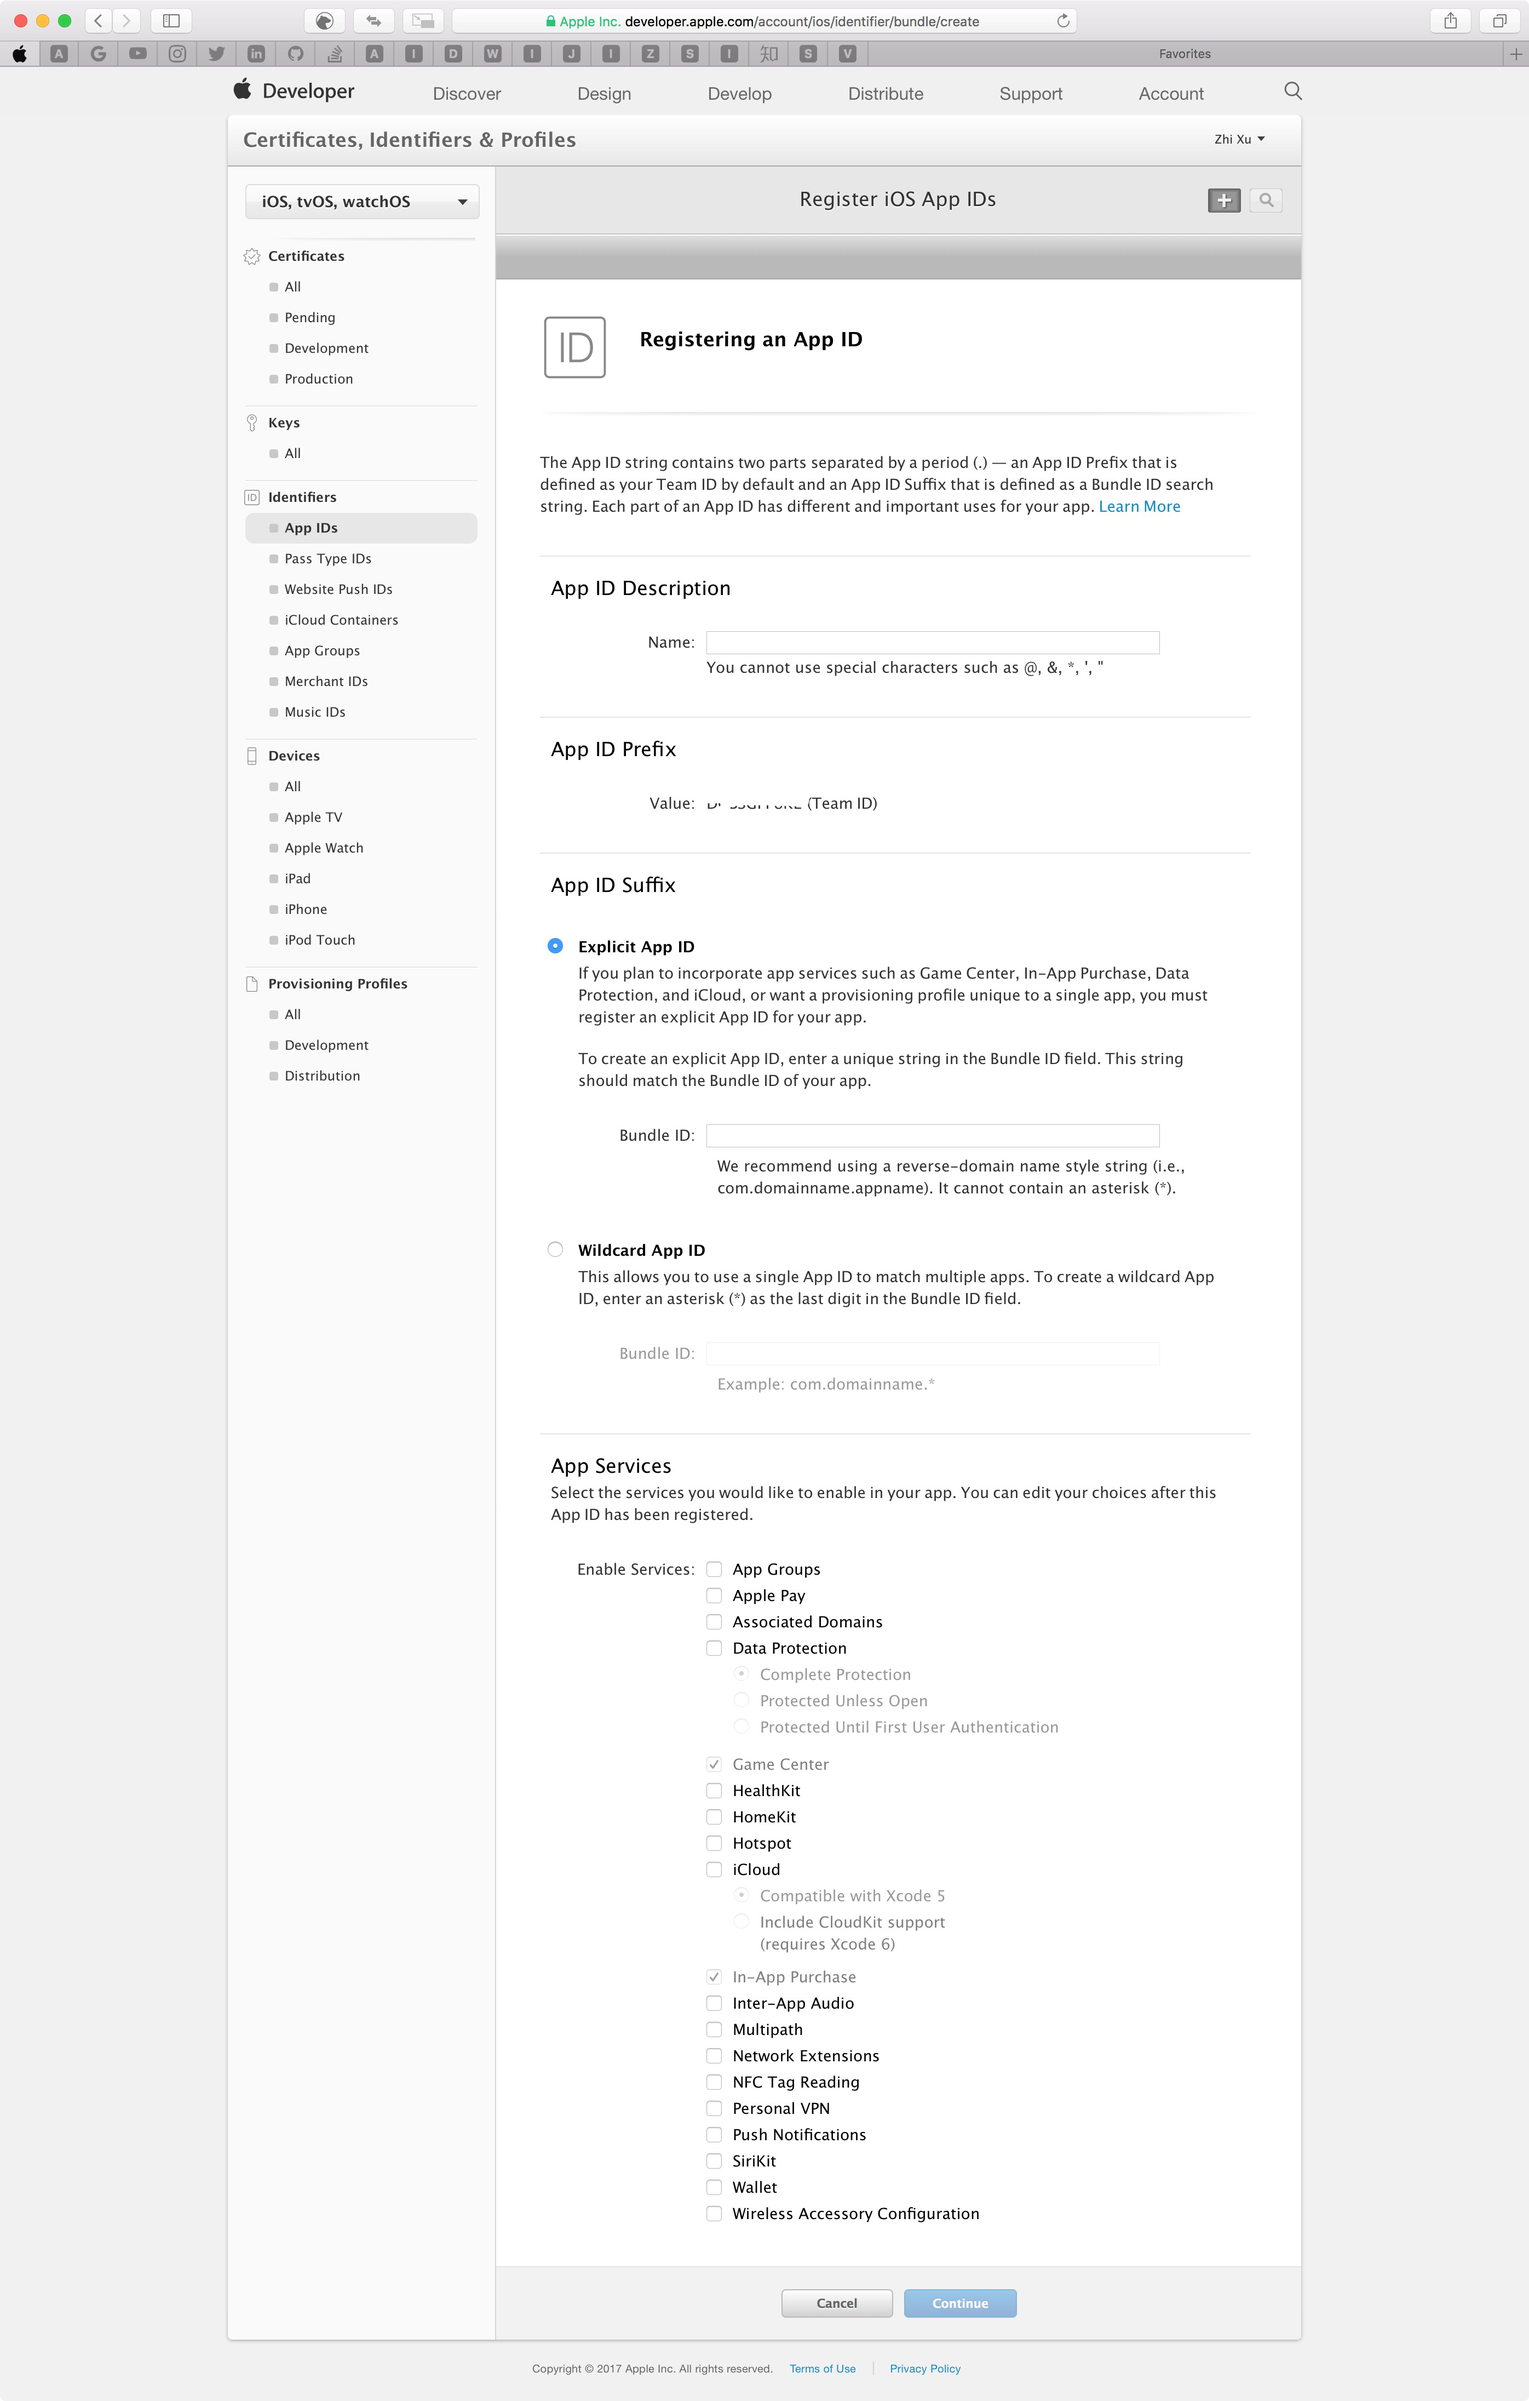
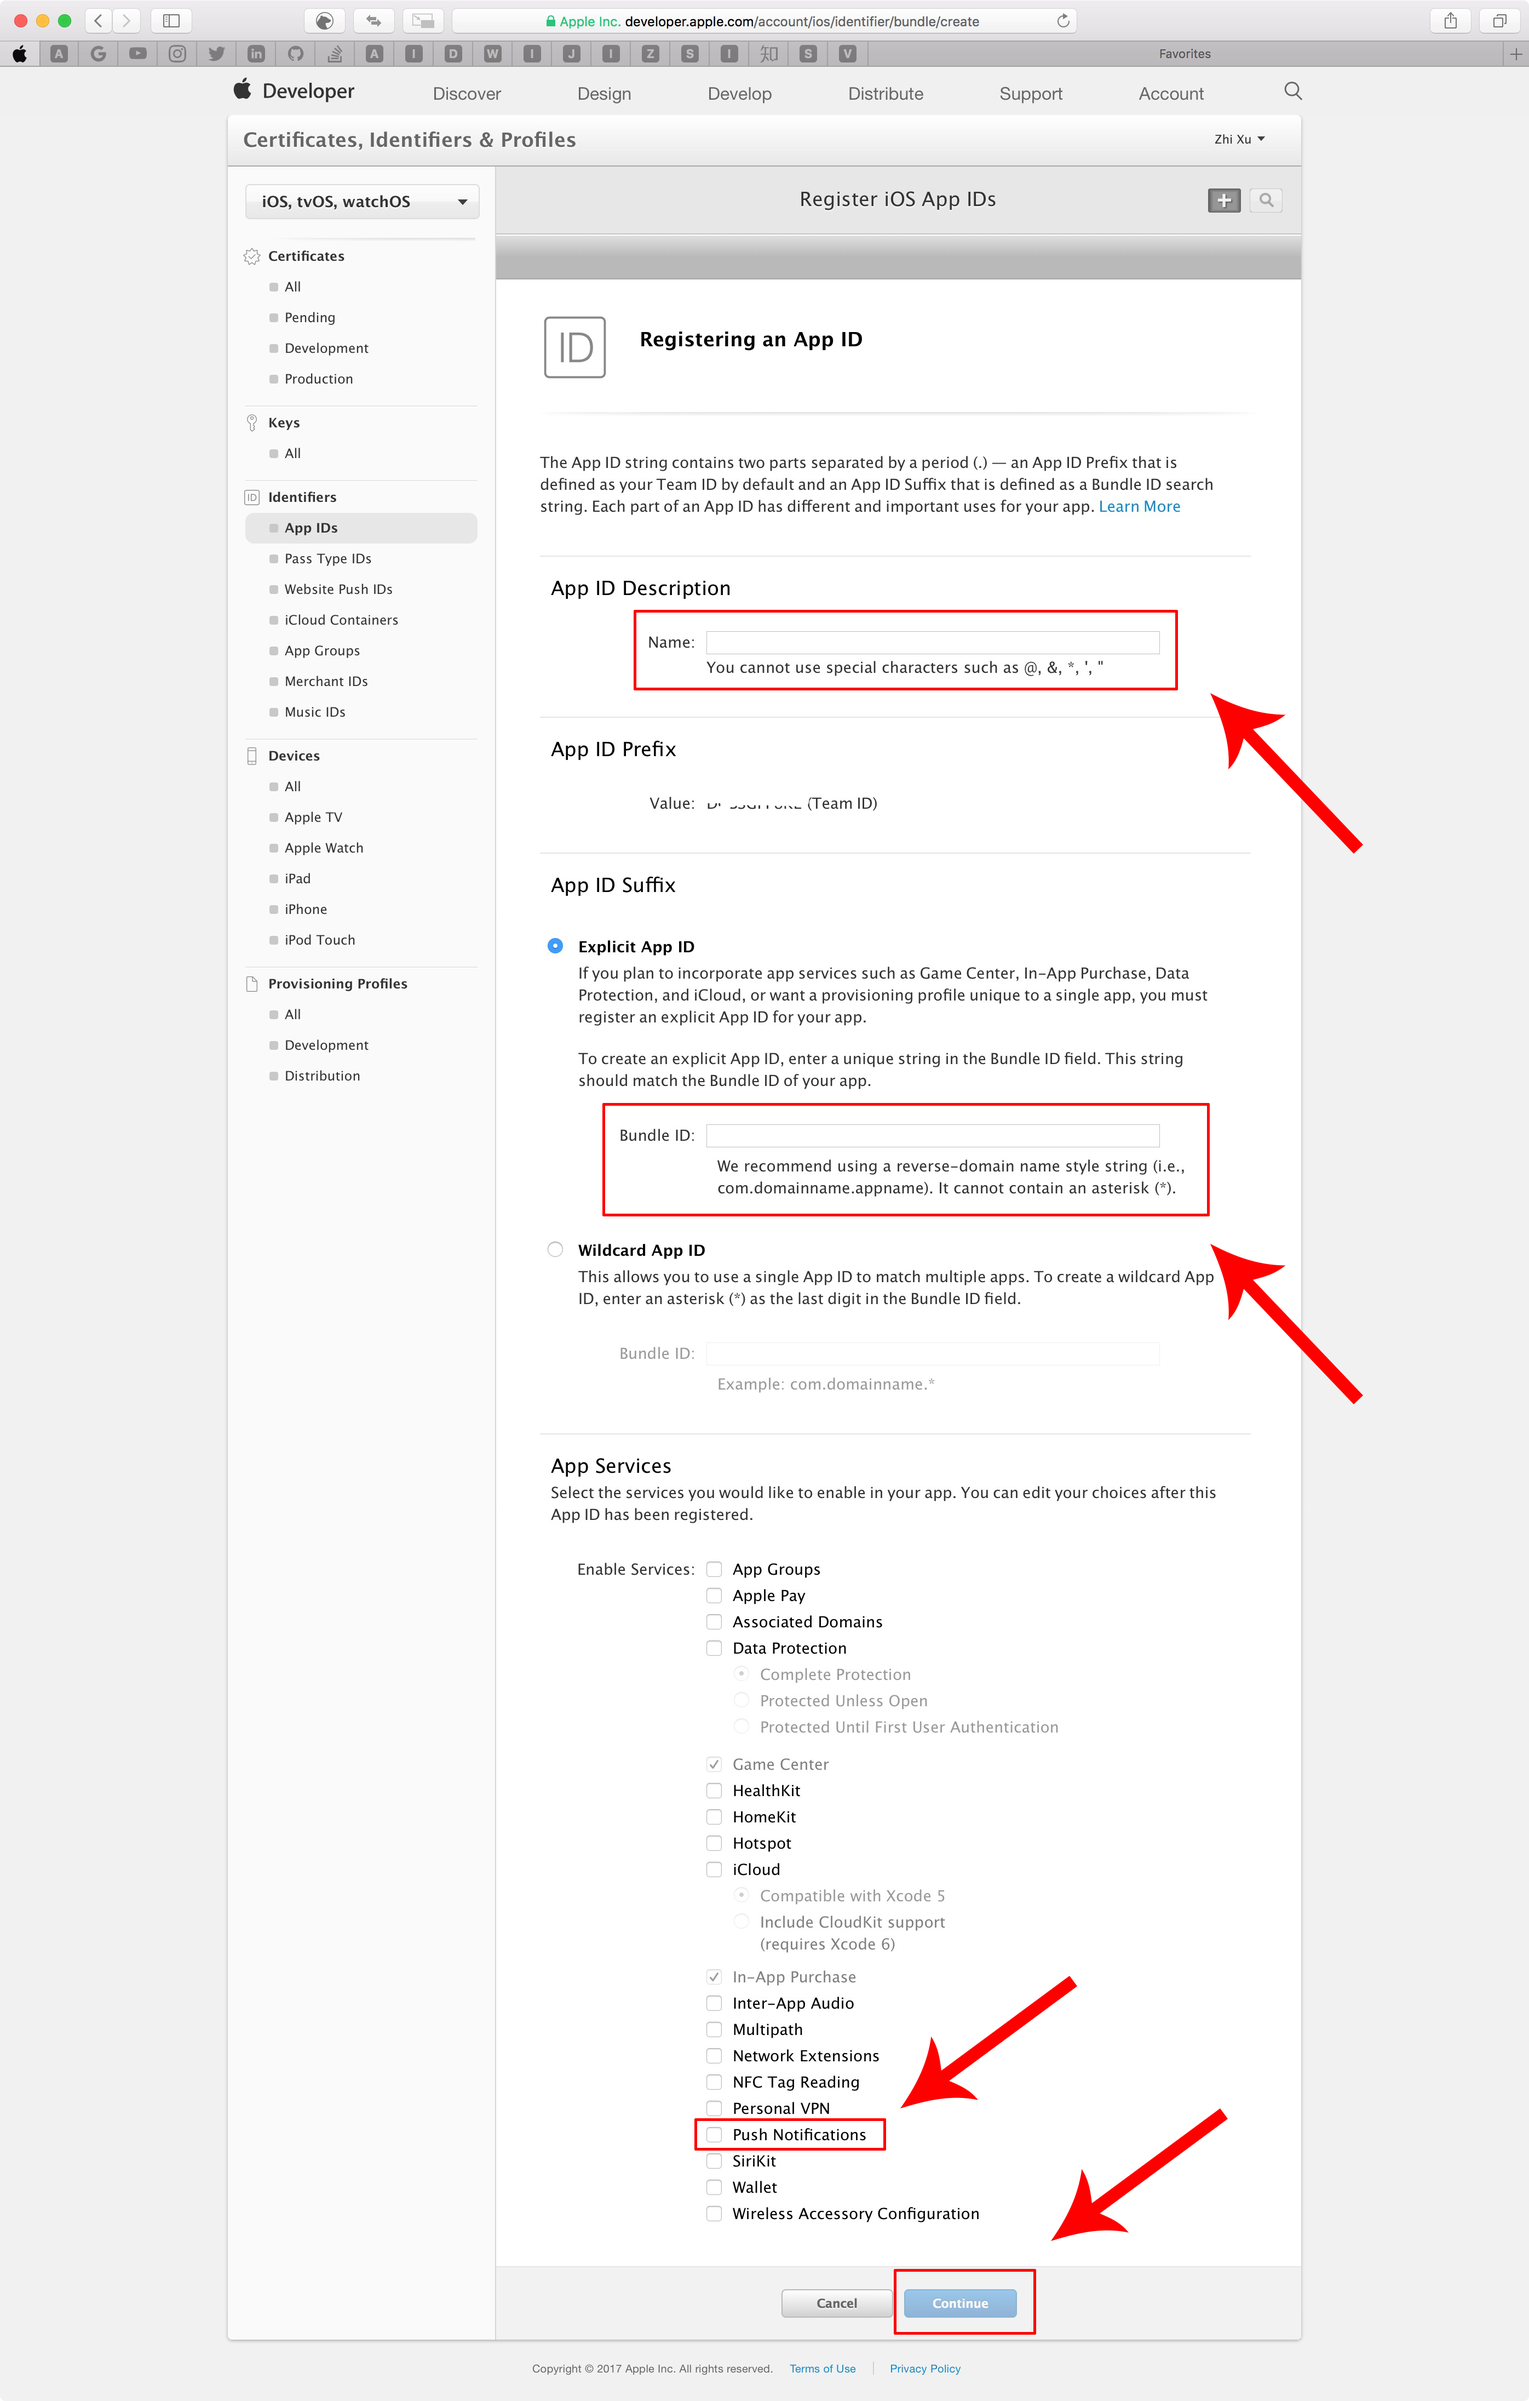
configure 04

diff --git a/AppStore创建以及更新应用说明文档/AppStore创建以及更新应用说明文档.md b/AppStore创建以及更新应用说明文档/AppStore创建以及更新应用说明文档.md
@@ -31,8 +31,10 @@
 
 :three: 填入以下必要的一些信息
 
-| 项目 | 节点 | 说明 |
+| 节点 | 字段 | 说明 |
 |---|---|---|
-|App ID Description|Name|
+|`App ID Description`|`Name`|AppID的名称,仅支持英文|
+|`APP ID Suffix`|选择`Explicit App ID`|这里的`Bundle ID`要和`Xcode`里的一致.以域名反写形式填入,例如`com.blueearth.sgcoc`|
+|`App Services`|`Push Notifications`|如果应用有推送功能,一般需要勾选该功能|
 
 ![Account](06.png)
